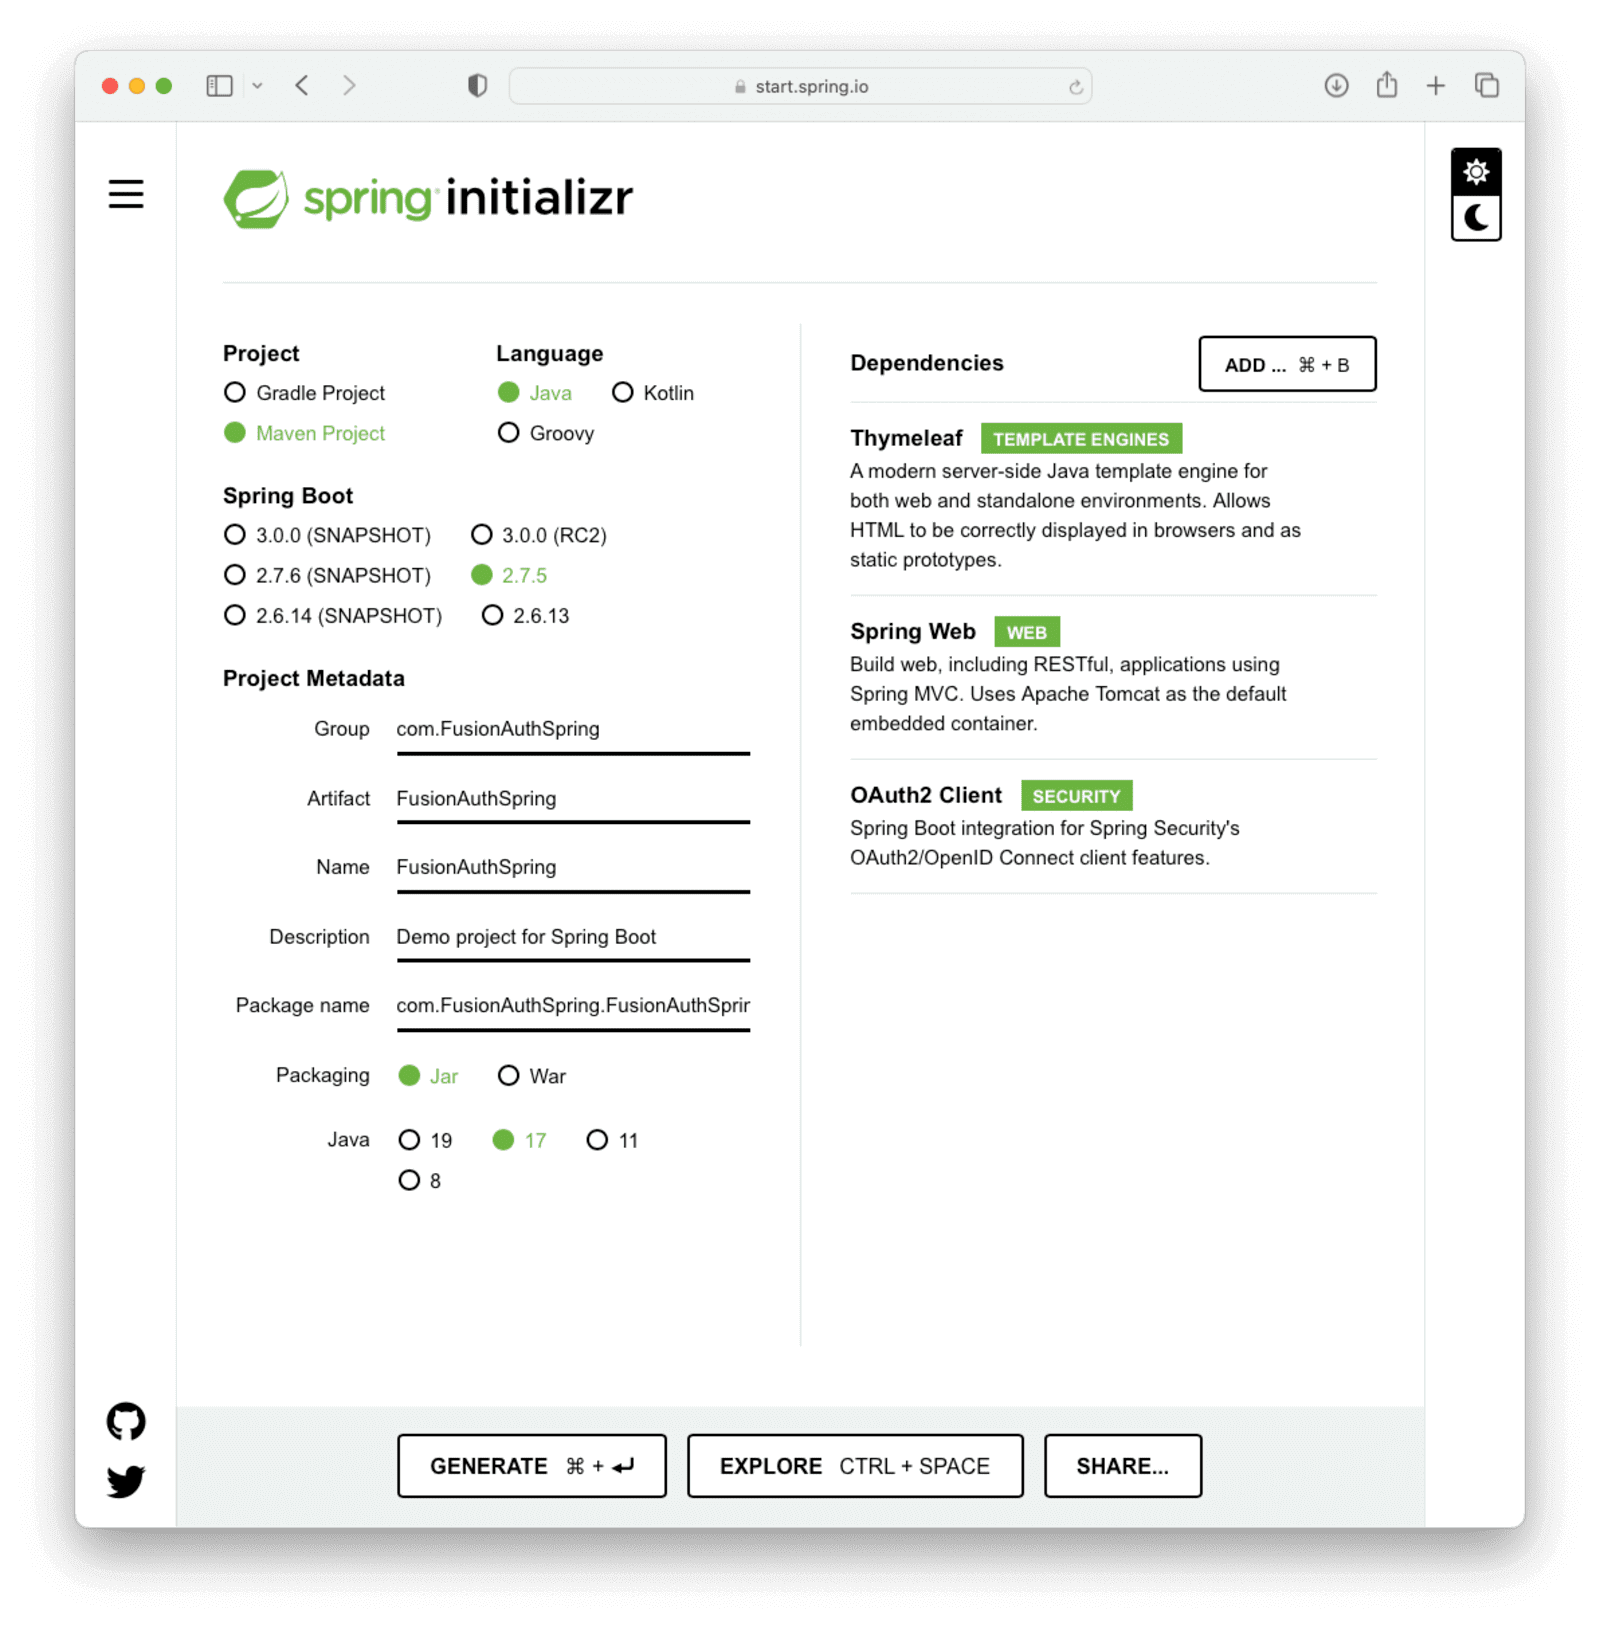
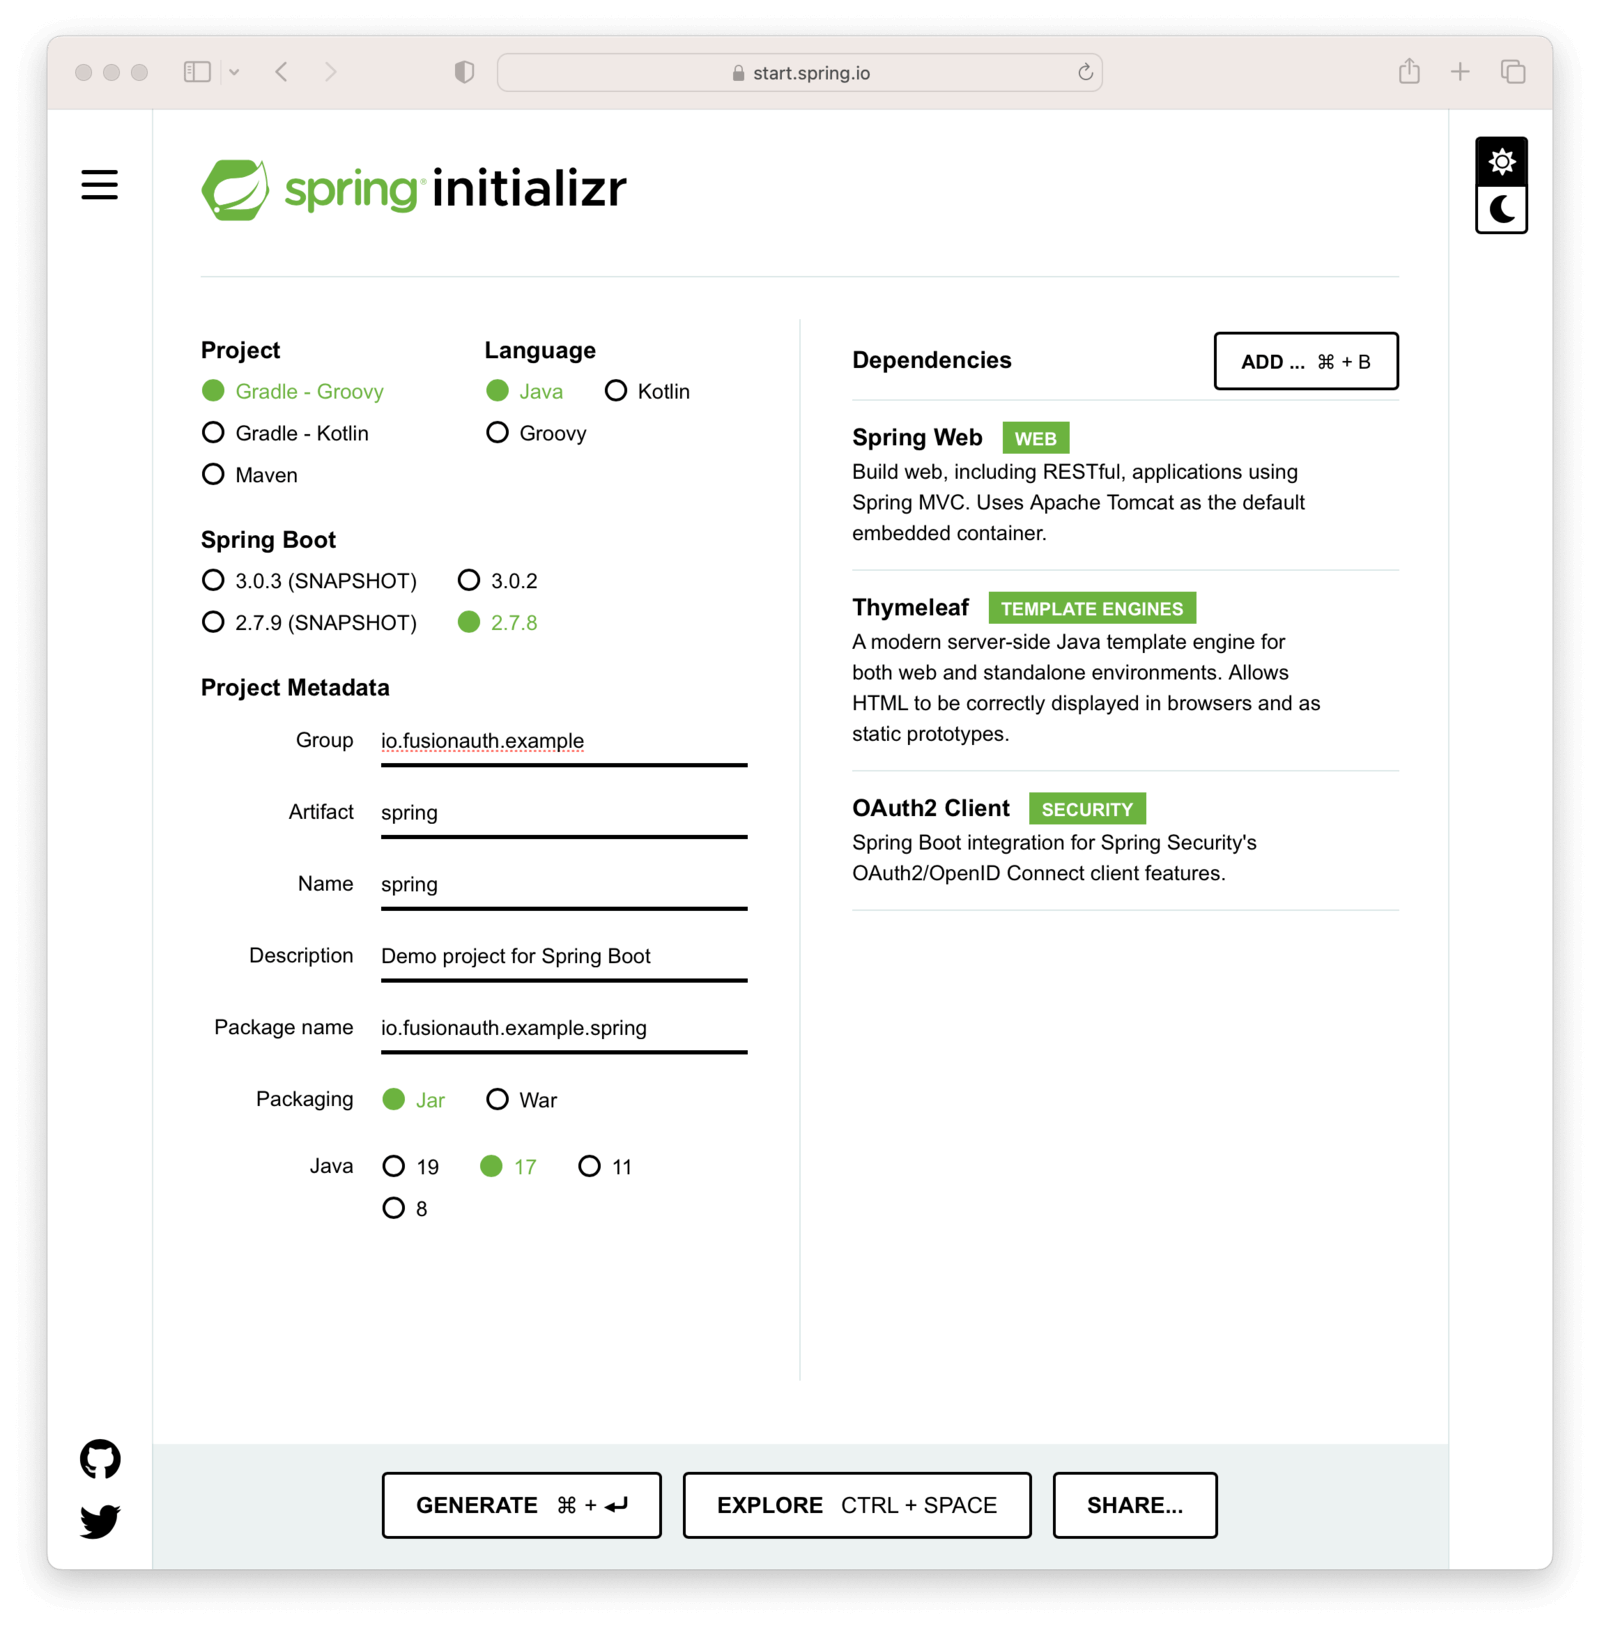
Use correct group id and artifact name, pull all the code from the example app

diff --git a/site/_posts/2023-01-03-spring-and-fusionauth.md b/site/_posts/2023-01-03-spring-and-fusionauth.md
@@ -117,7 +117,7 @@ Navigate to [Spring Initialzr](https://start.spring.io), and create a new Spring
 
 - You can choose either Gradle or Maven as your package manager—we've used Maven for this example
 - Spring Boot 2.7.x
-- Name the app, group and artifact as you wish, to generate a package name. We've used `com.fusionauth.example.spring` for the full package name.
+- Name the app, group and artifact as you wish, to generate a package name. We've used `io.fusionauth.example` for the full package name.
 - Choose the following dependencies:
   - Spring Web
   - OAuth 2.0 client
@@ -145,35 +145,14 @@ Spring Boot OAuth 2.0 Client has various configuration options through the `appl
 Update the `application.properties` file in the `resources` directory under the `main` source path to read as follows:
 
 ```java
-spring.thymeleaf.cache=false
-spring.thymeleaf.enabled=true 
-spring.thymeleaf.prefix=classpath:/templates/
-spring.thymeleaf.suffix=.html
-
-spring.application.name=FusionAuth Spring Example
-
-spring.security.oauth2.client.registration.fusionauth-client.client-id=<YOUR_FUSIONAUTH_APP_CLIENT_ID>
-spring.security.oauth2.client.registration.fusionauth-client.client-secret=<YOUR_FUSIONAUTH_APP_CLIENT_SECRET>
-spring.security.oauth2.client.registration.fusionauth-client.scope=email,openid,profile
-spring.security.oauth2.client.registration.fusionauth-client.redirect-uri=http://localhost:8080/login/oauth2/code/fusionauth
-spring.security.oauth2.client.registration.fusionauth-client.client-name=fusionauth
-spring.security.oauth2.client.registration.fusionauth-client.provider=fusionauth
-spring.security.oauth2.client.registration.fusionauth-client.client-authentication-method=basic
-spring.security.oauth2.client.registration.fusionauth-client.authorization-grant-type=authorization_code
-
-spring.security.oauth2.client.provider.fusionauth.authorization-uri=<YOUR_FUSIONAUTH_URL>/oauth2/authorize
-spring.security.oauth2.client.provider.fusionauth.token-uri=<YOUR_FUSIONAUTH_URL>/oauth2/token
-spring.security.oauth2.client.provider.fusionauth.user-info-uri=<YOUR_FUSIONAUTH_URL>/oauth2/userinfo?schema=openid
-spring.security.oauth2.client.provider.fusionauth.user-name-attribute=name
-spring.security.oauth2.client.provider.fusionauth.user-info-authentication-method=header
-spring.security.oauth2.client.provider.fusionauth.jwk-set-uri=<YOUR_FUSIONAUTH_URL>/.well-known/jwks.json
+{% remote_include https://raw.githubusercontent.com/FusionAuth/fusionauth-example-java-spring/main/src/main/resources/application.properties %}
 ```
 
 Replace the values:
 
-- `<YOUR_FUSIONAUTH_APP_CLIENT_ID>` with the client ID from the FusionAuth app created earlier.
-- `<YOUR_FUSIONAUTH_APP_CLIENT_SECRET>` with the client secret from the FusionAuth app created earlier.
-- `<YOUR_FUSIONAUTH_URL>` with the base URL your FusionAuth instance is running on, typically `http://localhost:9011` for local Docker installations.
+- `9fdb985-9173-4e01-9d73-ac2d60d1dc8e` with the client ID from the FusionAuth app created earlier.
+- `super-secret-secret-that-should-be-regenerated-for-production` with the client secret from the FusionAuth app created earlier.
+- `http://locahost:9011` with the base URL your FusionAuth instance is running on, if not using a local installation.
 
 Most of the values can also be found by clicking on the "View" application settings button in FusionAuth:
 
@@ -181,44 +160,10 @@ Most of the values can also be found by clicking on the "View" application setti
 
 ## Setting up Spring Boot OAuth 2.0 code configuration
 
-Create a `config` folder under the `main/java/.../....` source folder. In this folder, create a new file named `SecurityConfiguration.java` with the following contents:
+Create a `config` directory under the `src/main/java/io/fusionauth/example/spring` source directory. Create a new file named `SecurityConfiguration.java` with the following contents:
 
 ```java
-package com.fusionauth.example.spring.config;
-
-import org.springframework.context.annotation.Bean;
-import org.springframework.context.annotation.Configuration;
-import org.springframework.security.config.annotation.web.builders.HttpSecurity;
-import org.springframework.security.oauth2.client.registration.ClientRegistrationRepository;
-import org.springframework.security.oauth2.client.web.DefaultOAuth2AuthorizationRequestResolver;
-import org.springframework.security.oauth2.client.web.OAuth2AuthorizationRequestCustomizers;
-import org.springframework.security.oauth2.client.web.OAuth2AuthorizationRequestRedirectFilter;
-import org.springframework.security.web.SecurityFilterChain;
-
-@Configuration
-public class SecurityConfiguration {
-
-  @Bean
-  public SecurityFilterChain filterChain(HttpSecurity http, ClientRegistrationRepository repo)
-      throws Exception {
-
-    var base_uri = OAuth2AuthorizationRequestRedirectFilter.DEFAULT_AUTHORIZATION_REQUEST_BASE_URI;
-    var resolver = new DefaultOAuth2AuthorizationRequestResolver(repo, base_uri);
-
-    resolver.setAuthorizationRequestCustomizer(OAuth2AuthorizationRequestCustomizers.withPkce());
-
-    http
-        .authorizeRequests(a -> a
-            .antMatchers("/").permitAll()
-            .anyRequest().authenticated())
-        .oauth2Login(login -> login.authorizationEndpoint().authorizationRequestResolver(resolver));
-
-    http.logout(logout -> logout
-        .logoutSuccessUrl("/"));
-
-    return http.build();
-  }
-}
+{% remote_include https://raw.githubusercontent.com/FusionAuth/fusionauth-example-java-spring/main/src/main/java/io/fusionauth/example/spring/config/SecurityConfiguration.java %}
 ```
 
 This adds a [Bean](https://docs.spring.io/spring-framework/docs/current/reference/html/core.html) to hook into the [Spring security filter chain](https://docs.spring.io/spring-security/site/docs/3.0.x/reference/security-filter-chain.html).
@@ -233,94 +178,38 @@ Then we add a few things to the HTTP request chain:
 
 ## Adding the home page and controller
 
-Under the `main/java/.../....` folder, create a new file named `HomeController.java`. Add the following contents to this file:
+In the `src/main/java/io/fusionauth/example/spring` source directory, create a new file named `HomeController.java`. Add the following contents to this file:
 
 ```java
-package com.fusionauth.example.spring;
-
-import org.springframework.beans.factory.annotation.Value;
-import org.springframework.stereotype.Controller;
-import org.springframework.ui.Model;
-import org.springframework.web.bind.annotation.RequestMapping;
-
-@Controller
-public class HomeController {
-
-  @Value("${spring.application.name}")
-  String appName;
-
-  @RequestMapping("/")
-  public String homePage(Model model) {
-      model.addAttribute("appName", appName);
-      return "home";
-  }  
-}
+{% remote_include https://raw.githubusercontent.com/FusionAuth/fusionauth-example-java-spring/main/src/main/java/io/fusionauth/example/spring/HomeController.java %}
 ```
 
-Under the `src/main/resources/templates` folder, create a new file named `home.html`. Add the following contents to the file:
+Under the `src/main/resources/templates` directory, create a new file named `home.html`. Add the following contents to the file:
 
 ```html
-<html xmlns:th="http://www.w3.org/1999/xhtml" lang="en">
-<head><title>Home Page</title></head>
-<body>
-	<h1>Hello !</h1>
-	<p>Welcome to <span th:text="${appName}">Our App</span></p>
-
-	<p>You can view your profile <a href="/user">here</a></p>
-</body>
-</html>
+{% remote_include https://raw.githubusercontent.com/FusionAuth/fusionauth-example-java-spring/main/src/main/resources/templates/home.html %}
 ```
 
 ## Adding the user page and controller
 
 We set the `user-info-uri` property in the `application.properties` file and add the `openid` and `profile` scopes to the `scope` property so that Spring can automatically query FusionAuth for the user's profile and make it available to the app via the [`AuthenticationPrincipal` annotation parameter](https://docs.spring.io/spring-security/site/docs/current/api/org/springframework/security/core/annotation/AuthenticationPrincipal.html). We can use this to build a user controller to show the logged-in user their profile on FusionAuth. You can customize the profile fields stored on FusionAuth and requested during registration. Read more about this [here](https://fusionauth.io/docs/v1/tech/guides/advanced-registration-forms).
 
-Under the `main/java/.../....` folder, create a new file named `UserController.java`. Add the following contents to this file:
+In the `src/main/java/io/fusionauth/example/spring` source directory, create a new file named `UserController.java`. Add the following contents to this file:
 
 ```java
-package com.fusionauth.example.spring;
-
-import org.springframework.security.core.annotation.AuthenticationPrincipal;
-import org.springframework.security.oauth2.core.oidc.user.OidcUser;
-import org.springframework.stereotype.Controller;
-import org.springframework.ui.Model;
-import org.springframework.web.bind.annotation.RequestMapping;
-
-@Controller
-public class UserController {
-
-  public UserController() {
-
-  } 
-
-  @RequestMapping("/user")
-  public String userPage(Model model, @AuthenticationPrincipal OidcUser principal) {
-    if (principal != null) {
-      model.addAttribute("profile", principal.getClaims());
-    }
-    return "user";
-  }
-}
+{% remote_include https://raw.githubusercontent.com/FusionAuth/fusionauth-example-java-spring/main/src/main/java/io/fusionauth/example/spring/UserController.java %}
 ```
 
-Under the `src/main/resources/templates` folder, create a new file named `user.html`. Add the following contents to the file:
+Under the `src/main/resources/templates` directory, create a new file named `user.html`. Add the following contents to the file:
 
 ```html
-<html xmlns:th="http://www.w3.org/1999/xhtml" lang="en">
-<head><title>User Profile</title></head>
-<body>
-	<h1>Welcome to the protected User page. Below is your OpenID profile information.</h1>
-	<p>Profile: <span th:text="${profile}"></span></p>
-
-	<h2>You can logout here: <a href="<YOUR_FUSIONAUTH_URL>/oauth2/logout?client_id=<YOUR_FUSIONAUTH_APP_CLIENT_ID>">Logout</a></h2>
-</body>
-</html>
+{% remote_include https://raw.githubusercontent.com/FusionAuth/fusionauth-example-java-spring/main/src/main/resources/templates/user.html %}
 ```
 
 Replace the values in the logout link in the snippet above:
 
-- `<YOUR_FUSIONAUTH_URL>` with the base URL your FusionAuth instance is running on, typically `http://localhost:9011` for local Docker installations.
-- `<YOUR_FUSIONAUTH_APP_CLIENT_ID>` with the client Id from the FusionAuth app created earlier.
+- `http://localhost:9011` with the base URL your FusionAuth instance is running on, if not using a local installation.
+- `e9fdb985-9173-4e01-9d73-ac2d60d1dc8e` with the client Id from the FusionAuth app created earlier.
 
 
 The logout link redirects to FusionAuth, which logs the user out of the FusionAuth app and then redirects back to the `logout` URL set earlier in the FusionAuth app configuration, `http://localhost:8080/logout`. By default, Spring Boot web has logout logic wired at that endpoint to complete the logout process on the application by destroying the local session.
